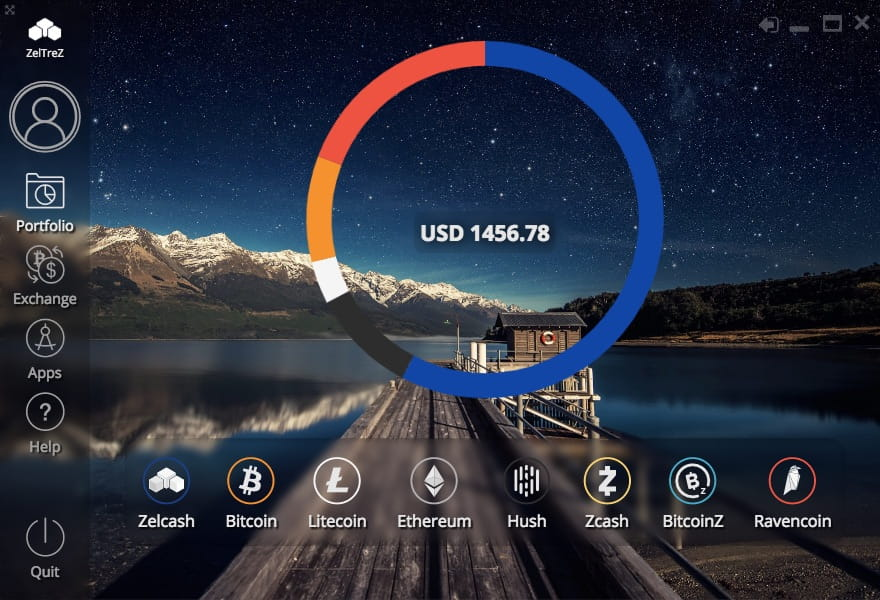
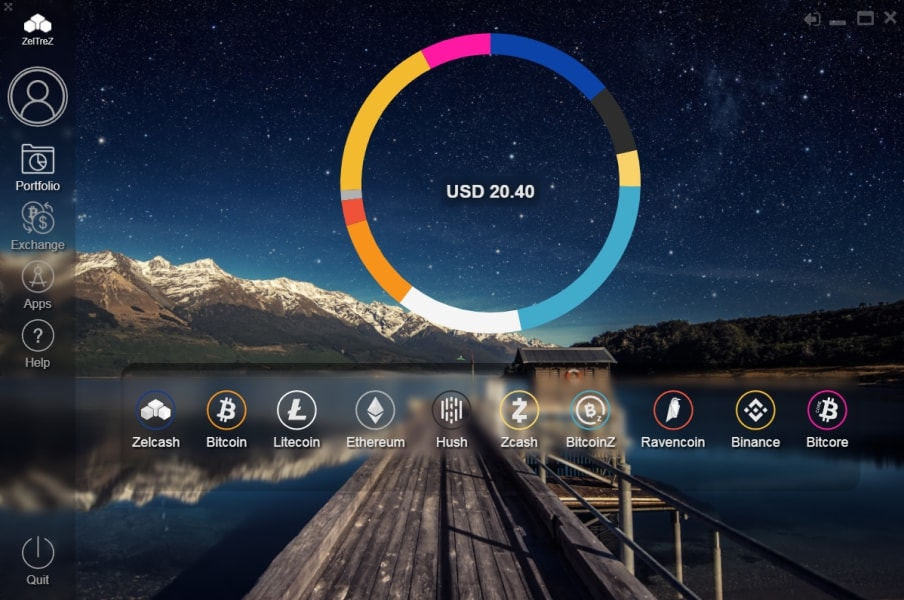
v1.0.3

diff --git a/downloads/index.html b/downloads/index.html
@@ -34,8 +34,8 @@
     <div class="vh-100 w-100 white">
 
       <div class="downloads w-100 pt5 pt6-l pa3 center tc">
-        <h3 class="code fw2 ttu tracked f3 mb0">1.0.1</h3>
-        <h4 class="fw2 ttu tracked f7 mb0 white-50">Last Updated: July 15th, 2018</h3>
+        <h3 class="code fw2 ttu tracked f3 mb0">1.0.3</h3>
+        <h4 class="fw2 ttu tracked f7 mb0 white-50">Last Updated: July 13th, 2018</h3>
 
         <div class="flex-none flex-m flex-l flex-wrap justify-center mw8 center">
           <div class="w-30-l w-100-ns tc ph3 mb5 mt4 mb0-l">
@@ -131,16 +131,50 @@
 
       <div class="mw7 center mt5 mb5 tl">
 
+        <h4 class="fw2 ttu tracked f7 mb0 white-70">1.0.3 Release Notes</h4>
+        <p>Info</p>
+        <ul class="list white-70 fw2 pl0">
+          <li class="mb2">Version 1.0.3. ZelTreZ welcomes Bitcore (BTX)!</li>
+        </ul>
+        <p>Features</p>
+        <ul class="list white-70 fw2 pl0">
+          <li class="mb2">- Bitcore (BTX) added.</li>
+          <li class="mb2">- Ethereum and Binance now utilises smart fees according to current network state.</li>
+          <li class="mb2">- Maximum button added. Upon clicking calculates maximum amount possible to send.</li>
+        </ul>
+        <p>Bug Fixes</p>
+        <ul class="list white-70 fw2 pl0">
+          <li class="mb2">- Sometimes Ethereum and Binance transaction were not showing success nor error message after creating a transaction.</li>
+        </ul>
+      </div>
+
+      <div class="mw7 center mt5 mb5 tl">
+
+        <h4 class="fw2 ttu tracked f7 mb0 white-70">1.0.2 Release Notes</h4>
+        <p>Info</p>
+        <ul class="list white-70 fw2 pl0">
+          <li class="mb2">Version 1.0.2. ZelTreZ welcomes Binance Coin (BNB) and brings full support for Zcash Overwinter transactions.</li>
+        </ul>
+        <p>Features</p>
+        <ul class="list white-70 fw2 pl0">
+          <li class="mb2">- Binance Coin (BNB) added.</li>
+          <li class="mb2">- Ethereum now shows Contracts (eg. BNB token transfer).</li>
+          <li class="mb2">- To make it consistent with other coins, Ethereum amount sent in transaction table now shows amount as a sum of actual amount and a transaction fee (previously only amount).</li>
+        </ul>
+        <p>Bug Fixes</p>
+        <ul class="list white-70 fw2 pl0">
+          <li class="mb2">- Zcash transactions in light wallet are now also comaptible with Overwinter.</li>
+          <li class="mb2">- In some cases when a light transaction was rejected by the network an error message was not displayed properly.</li>
+          <li class="mb2">- Sometimes transaction table was not formatted properly.</li>
+        </ul>
+      </div>
+
+      <div class="mw7 center mt5 mb5 tl">
+
         <h4 class="fw2 ttu tracked f7 mb0 white-70">1.0.1 Release Notes</h4>
         <p>Info</p>
         <ul class="list white-70 fw2 pl0">
           <li class="mb2">Version 1.0.1 provides new BitcoinZ daemon in order to stay on chain as of fork due to mining algorithm to Zhash. This update is mandatory for BitcoinZ full node users. During testing we have exporienced that local blockchain data might have to be deleted and ZelTreZ can not fixed that automatically. If you experience issues with BitcoinZ in full node mode, please check BitcoinZ debug.log file to indentify the error. This version also brings support to dump wallet for non privacy coins.</li>
-        </ul>
-        <p>Bugs</p>
-        <ul class="list white-70 fw2 pl0">
-          <li class="mb2">- Fixed hard QR code scanning.</li>
-          <li class="mb2">- Fixed typos.</li>
-          <li class="mb2">- Fixed ethereum server error.</li>
         </ul>
         <p>Features</p>
         <ul class="list white-70 fw2 pl0">
@@ -150,6 +184,12 @@
           <li class="mb2">- New BitcoinZ full node binaries.</li>
           <li class="mb2">- Windows portable version of ZelTreZ now available on zeltrez.io.</li>
           <li class="mb2">- deb package now available for Linux as well.</li>
+        </ul>
+        <p>Bug Fixes</p>
+        <ul class="list white-70 fw2 pl0">
+          <li class="mb2">- Fixed hard QR code scanning.</li>
+          <li class="mb2">- Fixed typos.</li>
+          <li class="mb2">- Fixed ethereum server error.</li>
         </ul>
       </div>
 

diff --git a/index.html b/index.html
@@ -41,7 +41,7 @@
       <div class="tc">
         <div class="card mw5 mw6-l center mt5 tc f3 fw3 white-90 br3 ba b--mid-gray">
           <div class="card__cell pa4 bb b--mid-gray">
-            <span class="fw5">1.0.1</span>
+            <span class="fw5">1.0.3</span>
             <a href="/downloads" class="link db f5 light-silver hover-near-white">Release Notes</a>
           </div>
           <div class="card__cell pa4 bb b--mid-gray">
@@ -68,7 +68,7 @@
           </div>
           <div class="w-100 pa5 pt0 pb2 pa3-l pr4-l">
             <h3 class="f3 fw5 mb1">Multi-asset Encrypted Wallet</h3>
-            <p class="white-70 fw3 f4 measure">Zeltrez keeps your assets safe. With support for 8 coins: Zelcash (ZEL), Bitcoin (BTC), Litecoin (LTC), Ethereum (ETH), Zcash (ZEC), BitcoinZ (BTCZ), Hush (HUSH), and Ravencoin (RVN).</p>
+            <p class="white-70 fw3 f4 measure">Zeltrez keeps your assets safe. With support for 10 coins: Zelcash (ZEL), Bitcoin (BTC), Litecoin (LTC), Ethereum (ETH), Zcash (ZEC), BitcoinZ (BTCZ), Hush (HUSH), Ravencoin (RVN), Binance (BNB) and BitCore (BTX).</p>
           </div>
         </div>
 
